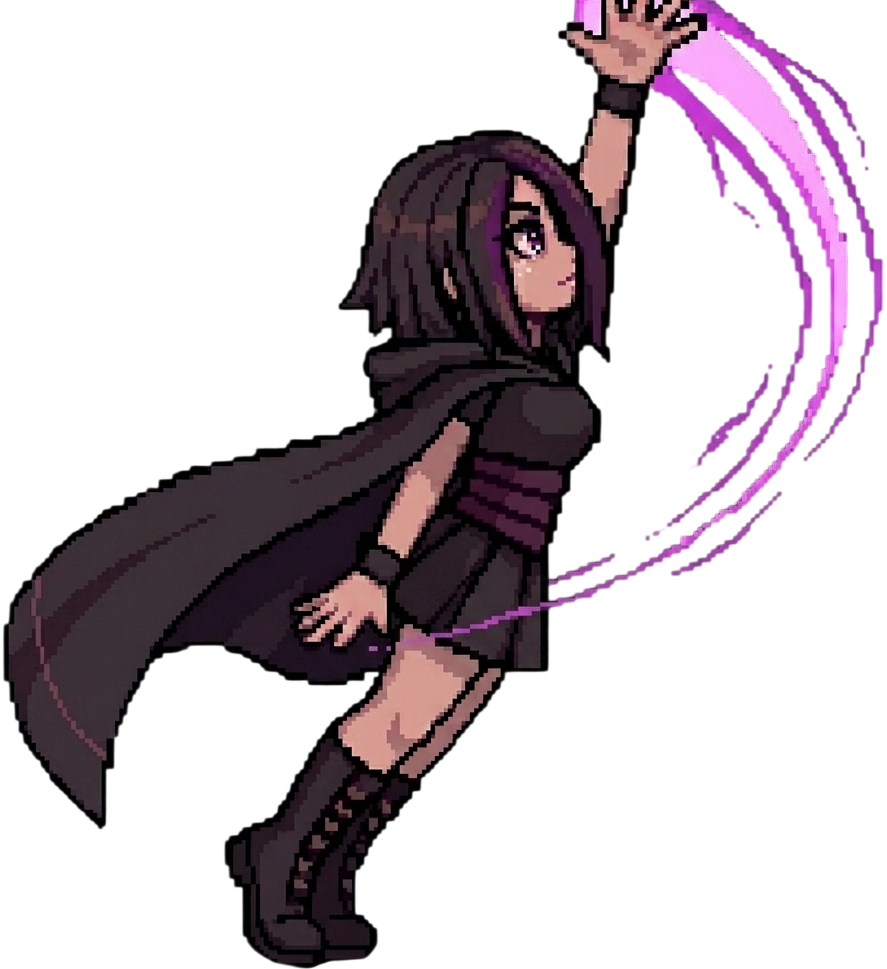
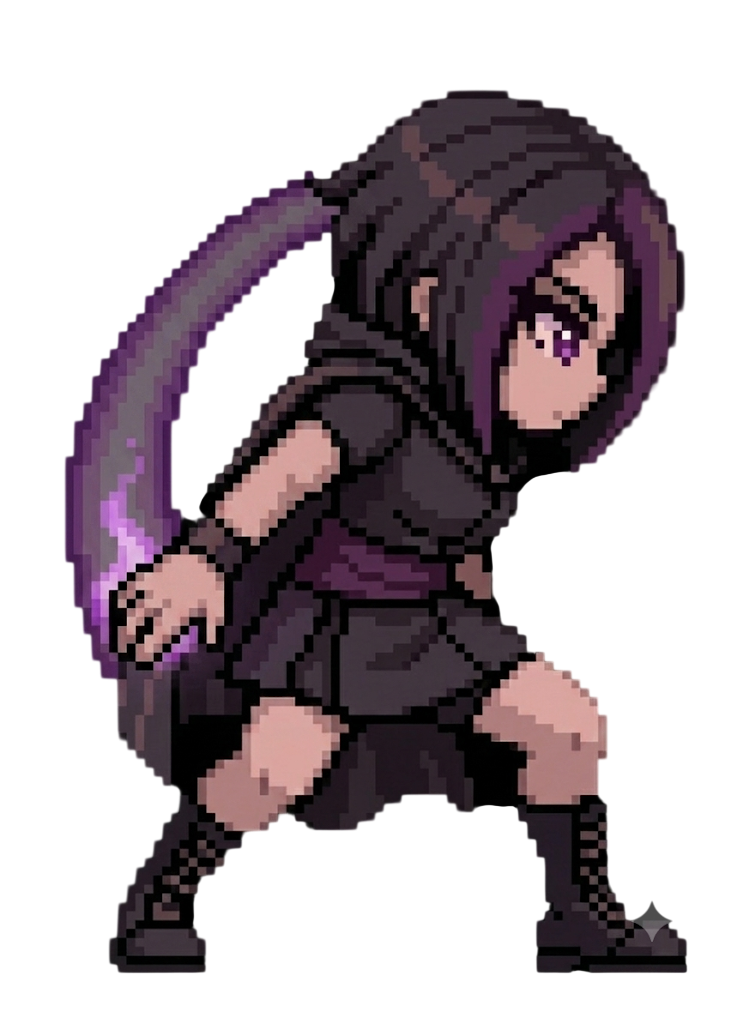
updated player sprites

diff --git a/test.c b/test.c
@@ -139,13 +139,21 @@ int main(void)
     texDJumpParticles[0] = LoadTexture("goth girl/Jump/DjumParticle1.png"); // burst begins
     texDJumpParticles[1] = LoadTexture("goth girl/Jump/DjumParticle2.png"); // peak
     texDJumpParticles[2] = LoadTexture("goth girl/Jump/DjumParticle3.png"); // fade out
-    Texture2D texAttack[3];
-    texAttack[0] = LoadTexture("goth girl/attack/attackframe1.png");
-    texAttack[1] = LoadTexture("goth girl/attack/attackframe2.png");
-    texAttack[2] = LoadTexture("goth girl/attack/attackframe3.png");
+    Texture2D texAttackSide[3];
+    texAttackSide[0] = LoadTexture("goth girl/attack/attackframe1.png");
+    texAttackSide[1] = LoadTexture("goth girl/attack/attackframe2.png");
+    texAttackSide[2] = LoadTexture("goth girl/attack/attackframe3.png");
+    Texture2D texAttackUp[3];
+    texAttackUp[0] = LoadTexture("goth girl/attack/attackframe1.png");
+    texAttackUp[1] = LoadTexture("goth girl/attack/upattackframe2.png");
+    texAttackUp[2] = LoadTexture("goth girl/attack/upattackframe3.png");
     Texture2D texAttackRect[2];
     texAttackRect[0] = LoadTexture("goth girl/attack/attackrect1.png");
     texAttackRect[1] = LoadTexture("goth girl/attack/attackrect2.png");
+    Texture2D texDash[3];
+    texDash[0] = LoadTexture("goth girl/right/dash1.png"); // windup / crouch
+    texDash[1] = LoadTexture("goth girl/right/dash2.png"); // tucked burst, mid-dash
+    texDash[2] = LoadTexture("goth girl/right/dash3.png"); // full speed streak
 
     // --- NEW: Animation Variables ---
     float sprintAnimTimer = 0.0f;
@@ -156,11 +164,15 @@ int main(void)
     const float DOUBLE_JUMP_PARTICLE_DURATION = 0.3f; // total particle effect duration (all 3 frames)
     float doubleJumpParticleX = 0.0f;                 // position where the double jump was triggered (fixed in world space)
     float doubleJumpParticleY = 0.0f;
-    float attackAnimTimer = 0.0f;
     int currentAttackFrame = 0;
     bool isAttacking = false;
-    const float ATTACK_FRAME_DURATION = 0.08f;
-    int attackDirection = 1; // facing direction locked in at the moment the attack starts; used for AttackRect sprite flip only
+    float attackCooldownAtTrigger = 0.0f; // cooldown value captured the instant this swing started; drives animation progress so the sprite can never outlast or finish before the real attack cooldown
+    int attackDirection = 1;      // facing direction locked in at the moment the attack starts; used for AttackRect sprite flip only
+    bool attackIsUpAttack = false; // whether the current swing is the up-attack, locked in at the moment the attack starts
+    int currentDashFrame = 0;
+    float dashDurationAtTrigger = 0.0f; // P.dashtimer value captured the instant the dash starts; drives animation progress the same way attackCooldownAtTrigger does
+    float dashParticleX = 0.0f; // world-space launch point captured at dash start, so the burst stays put while the player rockets away from it
+    float dashParticleY = 0.0f;
 
     // initialing the scrolling camera for the 1st frame
     Camera2D camera = {0};
@@ -221,7 +233,14 @@ int main(void)
 
                 UpdateSpikeKnockback(&P, dt);
 
+                bool wasDashing = P.dashing;
                 UpdateDash(&P, dt);
+                if (!wasDashing && P.dashing)
+                {
+                    dashDurationAtTrigger = P.dashtimer; // dash just started; whatever dashtimer holds right now is the full duration it'll count down from
+                    dashParticleX = P.x;                 // fixed launch point, same idea as doubleJumpParticleX/Y
+                    dashParticleY = P.y;
+                }
 
                 UpdateMovementX(&P, dt);
 
@@ -327,7 +346,23 @@ int main(void)
                 if (AttackCheck)
                     DrawRectangleRec(AttackRect, RED);
 
-                if (!P.onground)
+                if (P.dashing)
+                {
+                    // Same progress-from-real-timer trick as the attack animation below:
+                    // derive the frame from how much of the actual dash duration has
+                    // elapsed so the sprite can't finish before or outlast the dash itself.
+                    float dashProgress = (dashDurationAtTrigger > 0.0f)
+                        ? (1.0f - (P.dashtimer / dashDurationAtTrigger))
+                        : 1.0f;
+                    currentDashFrame = (int)(dashProgress * 3.0f);
+                    if (currentDashFrame > 2)
+                        currentDashFrame = 2;
+                    if (currentDashFrame < 0)
+                        currentDashFrame = 0;
+
+                    currentTex = texDash[currentDashFrame];
+                }
+                else if (!P.onground)
                 {
                     if (doubleJumpFlashTimer > 0.0f)
                     {
@@ -362,24 +397,28 @@ int main(void)
                 if (AttackCheck)
                 {
                     isAttacking = true;
-                    currentAttackFrame = 0;
-                    attackAnimTimer = 0.0f;
-                    attackDirection = P.dashflag; // lock in facing direction for the whole swing, set only on the trigger frame
+                    attackCooldownAtTrigger = P.attackcooldown; // cooldown UpdateAttack just set for this swing (e.g. 0.25)
+                    attackDirection = P.dashflag;                // lock in facing direction for the whole swing, set only on the trigger frame
+                    attackIsUpAttack = IsKeyDown(KEY_W);         // same condition UpdateAttack used internally to build the up-attack AttackRect
                 }
                 if (isAttacking)
                 {
-                    attackAnimTimer += dt;
-                    if (attackAnimTimer >= ATTACK_FRAME_DURATION)
-                    {
-                        attackAnimTimer = 0.0f;
-                        currentAttackFrame++;
-                        if (currentAttackFrame >= 3)
-                        {
-                            currentAttackFrame = 2;
-                            isAttacking = false;
-                        }
-                    }
-                    currentTex = texAttack[currentAttackFrame];
+                    // Derive animation progress directly from how much of the real
+                    // attack cooldown has elapsed, so the sprite can never finish
+                    // before or outlast the actual cooldown used by the hitbox logic.
+                    float progress = (attackCooldownAtTrigger > 0.0f)
+                        ? (1.0f - (P.attackcooldown / attackCooldownAtTrigger))
+                        : 1.0f;
+                    currentAttackFrame = (int)(progress * 3.0f);
+                    if (currentAttackFrame > 2)
+                        currentAttackFrame = 2;
+                    if (currentAttackFrame < 0)
+                        currentAttackFrame = 0;
+
+                    if (P.attackcooldown <= 0.0f)
+                        isAttacking = false;
+
+                    currentTex = attackIsUpAttack ? texAttackUp[currentAttackFrame] : texAttackSide[currentAttackFrame];
                 }
 
                 // --- NEW: Setup rectangles for drawing and flipping ---
@@ -435,6 +474,39 @@ int main(void)
                     DrawTexturePro(particleTex, particleSource, particleDest, (Vector2){0.0f, 0.0f}, 0.0f, WHITE);
                 }
 
+                // Reuse the double-jump particle burst for the dash: same 3 frames,
+                // driven off the same progress trick as the dash sprite itself, but
+                // rotated 90 degrees counterclockwise (raylib rotation is clockwise-
+                // positive, so -90 gives CCW) and drawn bigger. Anchored at the fixed
+                // launch point captured when the dash started, same idea as the
+                // double-jump particle staying put at doubleJumpParticleX/Y.
+                if (P.dashing)
+                {
+                    float dashParticleProgress = (dashDurationAtTrigger > 0.0f)
+                        ? (1.0f - (P.dashtimer / dashDurationAtTrigger))
+                        : 1.0f;
+                    int dashParticleFrame = (int)(dashParticleProgress * 3.0f);
+                    if (dashParticleFrame > 2)
+                        dashParticleFrame = 2;
+                    if (dashParticleFrame < 0)
+                        dashParticleFrame = 0;
+
+                    Texture2D dashParticleTex = texDJumpParticles[dashParticleFrame];
+                    float dashParticleDrawSize = 280.0f * 1.5f; // larger than the double-jump version
+                    Rectangle dashParticleSource = {0.0f, 0.0f, (float)dashParticleTex.width, (float)dashParticleTex.height};
+                    // Origin at the sprite's own center so the -90 rotation pivots in place
+                    // instead of swinging around a corner.
+                    Vector2 dashParticleOrigin = {dashParticleDrawSize / 2.0f, dashParticleDrawSize / 2.0f};
+                    // dest.x/y is where that center-origin lands in world space, so this
+                    // centers the burst on the player's hitbox at the launch point.
+                    Rectangle dashParticleDest = {
+                        dashParticleX + 50.0f,
+                        dashParticleY + 100.0f,
+                        dashParticleDrawSize,
+                        dashParticleDrawSize};
+                    DrawTexturePro(dashParticleTex, dashParticleSource, dashParticleDest, dashParticleOrigin, -90.0f, WHITE);
+                }
+
                 for (int i = 0; i < bullCount; i++)
                 {
                     if (bulls[i].alive == true)
@@ -446,22 +518,61 @@ int main(void)
                 if (AttackCheck)
                 {
                     // DrawRectangleRec(AttackRect, RED); actual attack
+                    // Up-attack needs the hitbox sprite rotated 90 degrees
+                    // counterclockwise (raylib rotation is clockwise-positive,
+                    // so -90 gives CCW). Width/height are swapped before
+                    // rotating so the post-rotation footprint still matches
+                    // AttackRect's actual shape, and the rotation pivots
+                    // around AttackRect's center instead of its corner.
+                    // For the left-facing flip: negating width flips
+                    // horizontally BEFORE rotation, which becomes a vertical
+                    // flip once the -90 rotation swaps the axes. So up-attacks
+                    // flip height instead, which reads correctly as
+                    // horizontal after rotation.
                     float rectSrcWidth = (float)texAttackRect[0].width;
+                    float rectSrcHeight = (float)texAttackRect[0].height;
                     if (attackDirection == -1)
-                        rectSrcWidth = -rectSrcWidth;
-                    Rectangle src = {0, 0, rectSrcWidth, texAttackRect[0].height};
-                    Rectangle dest = {AttackRect.x, AttackRect.y, AttackRect.width, AttackRect.height};
-                    DrawTexturePro(texAttackRect[0], src, dest, (Vector2){0, 0}, 0.0f, WHITE);
+                    {
+                        if (attackIsUpAttack)
+                            rectSrcHeight = -rectSrcHeight;
+                        else
+                            rectSrcWidth = -rectSrcWidth;
+                    }
+                    Rectangle src = {0, 0, rectSrcWidth, rectSrcHeight};
+
+                    float centerX = AttackRect.x + AttackRect.width / 2.0f;
+                    float centerY = AttackRect.y + AttackRect.height / 2.0f;
+                    float rectRotation = attackIsUpAttack ? -90.0f : 0.0f;
+                    float drawWidth = attackIsUpAttack ? AttackRect.height : AttackRect.width;
+                    float drawHeight = attackIsUpAttack ? AttackRect.width : AttackRect.height;
+                    Rectangle dest = {centerX, centerY, drawWidth, drawHeight};
+                    Vector2 rectOrigin = {drawWidth / 2.0f, drawHeight / 2.0f};
+
+                    DrawTexturePro(texAttackRect[0], src, dest, rectOrigin, rectRotation, WHITE);
                 }
                 if (isAttacking && AttackCheck == 0)
                 {
                     int rectFrame = (currentAttackFrame < 2) ? 0 : 1;
                     float rectSrcWidth = (float)texAttackRect[rectFrame].width;
+                    float rectSrcHeight = (float)texAttackRect[rectFrame].height;
                     if (attackDirection == -1)
-                        rectSrcWidth = -rectSrcWidth; // flip horizontally, locked to the direction the attack started in
-                    Rectangle src = {0, 0, rectSrcWidth, texAttackRect[rectFrame].height};
-                    Rectangle dest = {AttackRect.x, AttackRect.y, AttackRect.width, AttackRect.height};
-                    DrawTexturePro(texAttackRect[rectFrame], src, dest, (Vector2){0, 0}, 0.0f, WHITE);
+                    {
+                        if (attackIsUpAttack)
+                            rectSrcHeight = -rectSrcHeight;
+                        else
+                            rectSrcWidth = -rectSrcWidth; // flip horizontally, locked to the direction the attack started in
+                    }
+                    Rectangle src = {0, 0, rectSrcWidth, rectSrcHeight};
+
+                    float centerX = AttackRect.x + AttackRect.width / 2.0f;
+                    float centerY = AttackRect.y + AttackRect.height / 2.0f;
+                    float rectRotation = attackIsUpAttack ? -90.0f : 0.0f;
+                    float drawWidth = attackIsUpAttack ? AttackRect.height : AttackRect.width;
+                    float drawHeight = attackIsUpAttack ? AttackRect.width : AttackRect.height;
+                    Rectangle dest = {centerX, centerY, drawWidth, drawHeight};
+                    Vector2 rectOrigin = {drawWidth / 2.0f, drawHeight / 2.0f};
+
+                    DrawTexturePro(texAttackRect[rectFrame], src, dest, rectOrigin, rectRotation, WHITE);
                 }
                 for (int i = 0; i < MAP_ROWS; i++)
                 {
@@ -598,9 +709,13 @@ int main(void)
         UnloadTexture(texDJumpParticles[i]);
     UnloadTexture(spiritChase);
     for (int i = 0; i < 3; i++)
-        UnloadTexture(texAttack[i]);
+        UnloadTexture(texAttackSide[i]);
+    for (int i = 0; i < 3; i++)
+        UnloadTexture(texAttackUp[i]);
     for (int i = 0; i < 2; i++)
         UnloadTexture(texAttackRect[i]);
+    for (int i = 0; i < 3; i++)
+        UnloadTexture(texDash[i]);
     CloseWindow();
     return 0;
 }

diff --git a/enemies.c b/enemies.c
@@ -417,12 +417,15 @@ void UpdateDragon(Dragon *D, Player *P, float dt, int attackcheck, Rectangle *at
         if (CheckCollisionRecs(dragonrect, *attackrect))
         {
             D->health -= P->damage;
-            if (P->x > D->x)
-                D->recoildirection = 1;
-            else
-                D->recoildirection = -1;
+            if (!IsKeyDown(KEY_W))
+            {
+                if (P->x > D->x)
+                    D->recoildirection = 1;
+                else
+                    D->recoildirection = -1;
 
-            D->playerecoil = 0.3f;
+                D->playerecoil = 0.3f;
+            }
         }
     }
     if (D->playerecoil > 0)

diff --git a/player.c b/player.c
@@ -80,23 +80,23 @@ int UpdateAttack(Player *P, float dt, Rectangle *AttackRect)
         if (IsKeyDown(KEY_W))
         {
             AttackRect->x = P->x - 100;
-            AttackRect->y = P->y-200;
-            AttackRect->height = 200;
+            AttackRect->y = P->y-400;
+            AttackRect->height = 300;
             AttackRect->width = 300;
         }
         else if (P->dashflag == -1)
         {
-            AttackRect->x = P->x - 200;
+            AttackRect->x = P->x - 300;
             AttackRect->y = P->y;
             AttackRect->height = 200;
-            AttackRect->width = 200;
+            AttackRect->width = 300;
         }
         else if (P->dashflag == 1)
         {
             AttackRect->x = P->x + 100;
             AttackRect->y = P->y;
             AttackRect->height = 200;
-            AttackRect->width = 200;
+            AttackRect->width = 300;
         }
         return 1;
     }

diff --git a/enemies2.c b/enemies2.c
@@ -198,8 +198,8 @@ int UpdateMimicLogic(Mimic *M, Player *P, float dt, int attackcheck, Rectangle *
         }
         if (M->knockbackduration > 0)
         {
-            P->x -= 3000 * P->dashflag * dt;
-            M->x += 3000 * P->dashflag * dt;
+            P->x -= 1500 * P->dashflag * dt;
+            M->x += 1500 * P->dashflag * dt;
             M->knockbackduration -= dt;
         }
     }